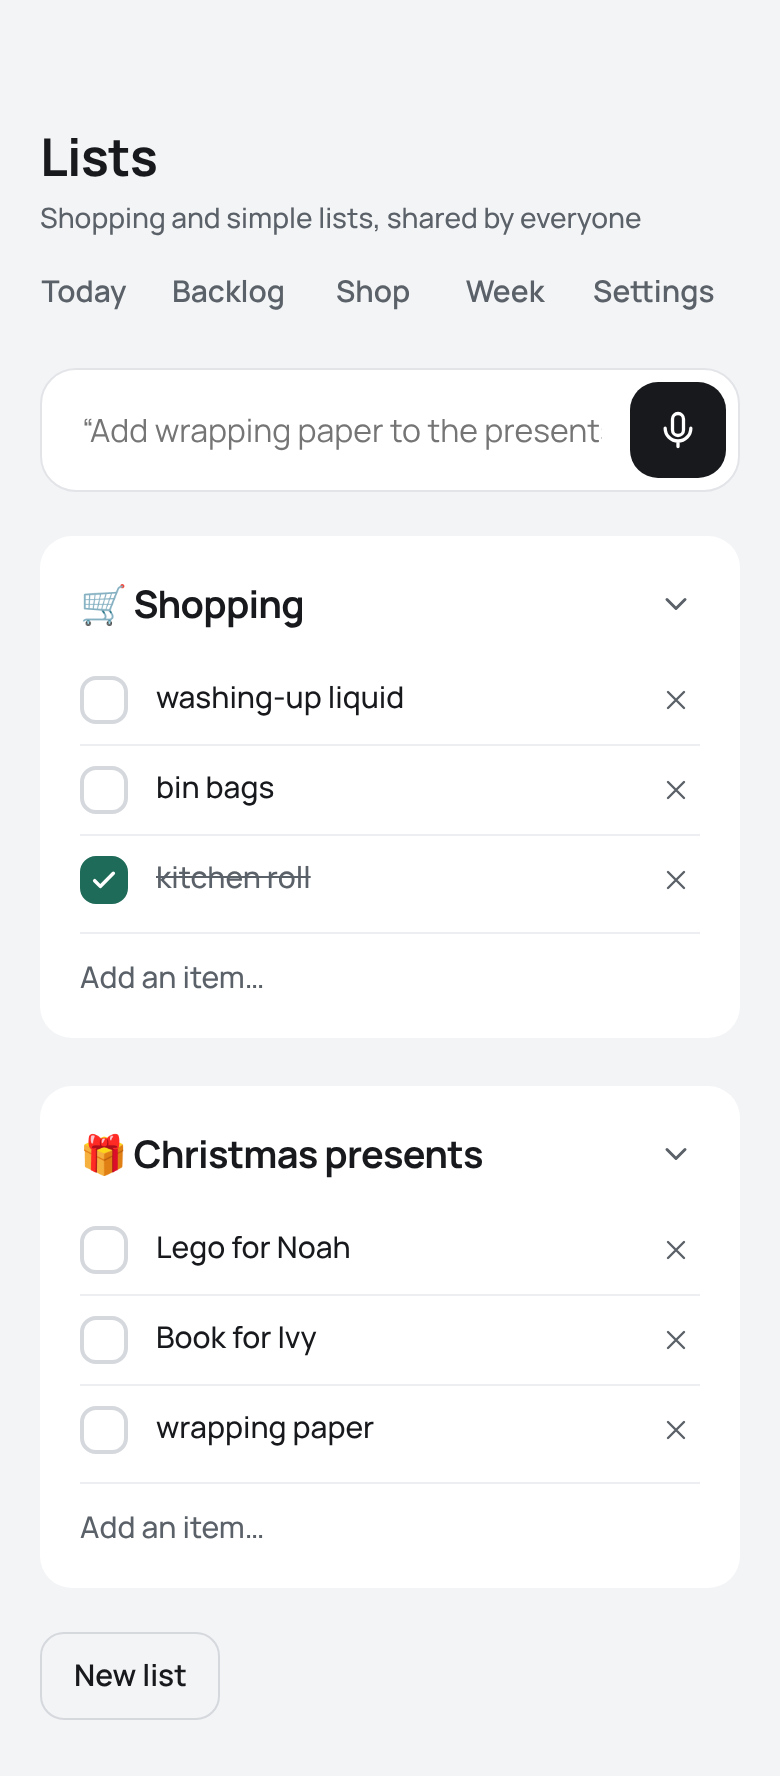
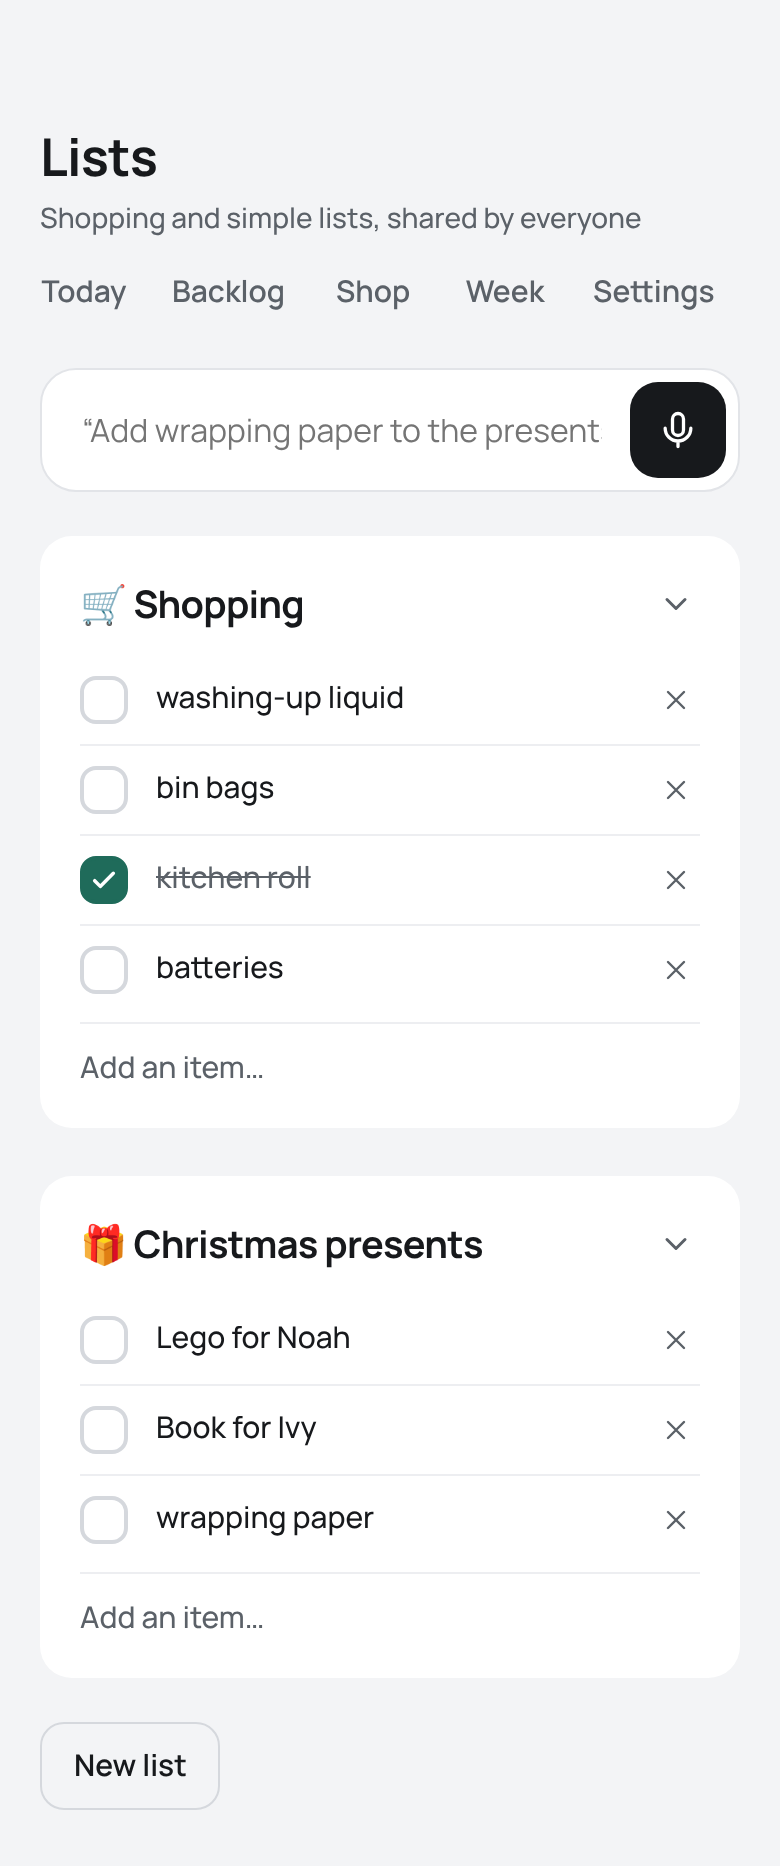
HOU-137: fix Entire findings on the lists domain
- "add … to the shopping list" now goes on the Shopping list in the app;
  "we're out of …" and "add … to the shop/basket/order" still go to the
  supermarket (AUT-1). Tool description, agent instructions, practice model,
  and a vitest and e2e case for it.
- The import refuses to write into the practice household unless --practice,
  and is documented to run inside the app container with the house's own
  settings (the host-side pnpm script is gone).
- Adding an item clears only the text that was sent; anything typed while it
  saved stays.
- Failed adds and renames show a message instead of an unhandled rejection.
- Each list panel no longer mounts its own lists query.
- setChecked uses the update's own result; addItem tests the actor once.

Claude-Session: https://claude.ai/code/session_01J2FKjcehDVc3WtDzLnXPPs
Entire-Checkpoint: 01M6BRSTV776CFA1TQV18FJY2Y

diff --git a/web/src/screens/Lists.tsx b/web/src/screens/Lists.tsx
@@ -7,20 +7,34 @@ import { FooterComposer, navFor } from "./common.tsx";
 
 const NEW_LIST = { name: "New list", emoji: "📝" } as const;
 const alreadyThere = (text: string) => `"${text}" is already on this list — try a different name.`;
+const NOT_SAVED = "That didn't save — check the connection and try again.";
 
-/** The lists query, and a way to change it in place before the server answers (the change then arrives over /api/live). */
-function useListsData() {
+/**
+ * A write that resolves to a message to show (or null when it saved). A failed request shows a
+ * message instead of being lost; the list is refetched either way.
+ */
+type Refusal = string | null;
+async function saved(write: () => Promise<{ outcome: ListWriteOutcome }>, text: string): Promise<Refusal> {
+  try {
+    return (await write()).outcome === ListWriteOutcome.duplicate ? alreadyThere(text) : null;
+  } catch {
+    return NOT_SAVED;
+  }
+}
+
+/** Change the lists in place before the server answers (the server's answer then arrives over /api/live). */
+function useListsCache() {
   const trpc = useTRPC();
   const queryClient = useQueryClient();
   const key = trpc.lists.queryKey();
   const patchItem = (id: string, change: (item: ListItem) => ListItem | null) =>
     queryClient.setQueryData<ListsView>(key, (old) => old?.map((l) => ({ ...l, items: l.items.flatMap((i) => (i.id === id ? [change(i)].filter((x) => x !== null) : [i])) })));
-  return { lists: useQuery(trpc.lists.queryOptions()), patchItem, refresh: () => queryClient.invalidateQueries({ queryKey: key }) };
+  return { patchItem, refresh: () => queryClient.invalidateQueries({ queryKey: key }) };
 }
 
 function ListPanel({ list }: { list: List }) {
   const trpc = useTRPC();
-  const { patchItem, refresh } = useListsData();
+  const { patchItem, refresh } = useListsCache();
   const settle = { onSettled: refresh };
   const add = useMutation(trpc.addListItem.mutationOptions(settle));
   const check = useMutation(trpc.setListItemChecked.mutationOptions(settle));
@@ -79,10 +93,7 @@ function ListPanel({ list }: { list: List }) {
       adder={
         <AddItemField
           label={`Add an item to ${list.name}`}
-          onAdd={async (text) => {
-            const result = await add.mutateAsync({ listId: list.id, text });
-            return result.outcome === ListWriteOutcome.duplicate ? alreadyThere(text) : null;
-          }}
+          onAdd={(text) => saved(() => add.mutateAsync({ listId: list.id, text }), text)}
         />
       }
     >
@@ -95,10 +106,7 @@ function ListPanel({ list }: { list: List }) {
             patchItem(item.id, (i) => ({ ...i, checked }));
             check.mutate({ id: item.id, checked });
           }}
-          onRename={async (text) => {
-            const result = await rename.mutateAsync({ id: item.id, text });
-            return result.outcome === ListWriteOutcome.duplicate ? alreadyThere(text) : null;
-          }}
+          onRename={(text) => saved(() => rename.mutateAsync({ id: item.id, text }), text)}
           onRemove={() => {
             patchItem(item.id, () => null);
             removeItem.mutate({ id: item.id });
@@ -115,7 +123,8 @@ function ListPanel({ list }: { list: List }) {
  */
 export function ListsScreen() {
   const trpc = useTRPC();
-  const { lists, refresh } = useListsData();
+  const lists = useQuery(trpc.lists.queryOptions());
+  const { refresh } = useListsCache();
   const create = useMutation(trpc.createList.mutationOptions({ onSettled: refresh }));
   return (
     <Page label="Lists">

diff --git a/scripts/import-family-lists.ts b/scripts/import-family-lists.ts
@@ -8,12 +8,16 @@ import { FAMILY_LISTS_ENV, readFamilyLists, redacted } from "./family-lists/read
 /**
  * CAP-6: copy Family Lists' lists and items into the lists domain, once (order, ticks and emoji kept).
  *
- *   FAMILY_LISTS_DATABASE_URL='postgresql://…' pnpm lists:import            # copy into this house
- *   FAMILY_LISTS_DATABASE_URL='postgresql://…' pnpm lists:import --dry-run  # only count what is there
+ * Run it where the app runs, so it reads the house's own settings (docs/OPERATIONS.md):
  *
- * It reads Family Lists in a read-only transaction and never writes to it. It writes to this house's
- * lists domain (DATABASE_URL, DB_PREFIX and the rest of .env, as `pnpm start` does) and refuses if any
- * list is already there. The connection string is read from the environment only; it is never printed.
+ *   FAMILY_LISTS_DATABASE_URL='postgresql://…' docker compose run --rm -e FAMILY_LISTS_DATABASE_URL app node scripts/import-family-lists.ts --dry-run
+ *   FAMILY_LISTS_DATABASE_URL='postgresql://…' docker compose run --rm -e FAMILY_LISTS_DATABASE_URL app node scripts/import-family-lists.ts
+ *
+ * It reads Family Lists in a read-only transaction and never writes to it. It writes to the lists
+ * domain of the house its environment names (DATABASE_URL, DB_PREFIX, PRACTICE, as `pnpm start` reads
+ * them), says which, and refuses if any list is already there. Without `--practice` it refuses to write
+ * into the practice household, so a run that missed the house's settings cannot land there by default.
+ * The connection string is read from the environment only; it is never printed.
  */
 const source = process.env[FAMILY_LISTS_ENV];
 if (source === undefined || source === "") {
@@ -21,6 +25,7 @@ if (source === undefined || source === "") {
   process.exit(2);
 }
 const dryRun = process.argv.includes("--dry-run");
+const intoPractice = process.argv.includes("--practice");
 
 try {
   const snapshot = await readFamilyLists(source);
@@ -30,6 +35,10 @@ try {
     process.exit(0);
   }
   const env = loadEnv();
+  if (env.PRACTICE && !intoPractice) {
+    console.error(JSON.stringify({ event: "family-lists-import-refused", reason: "these settings are the practice household (PRACTICE is not false); run it where the app runs (docs/OPERATIONS.md), or pass --practice to copy into the practice household on purpose" }));
+    process.exit(2);
+  }
   await migrateAll(env);
   const ports = env.PRACTICE ? practicePorts() : realPorts(env, { now: () => new Date() }, { timeZone: "Europe/London", personForEmail: () => null }).ports;
   const rt = await createRuntime(env, ports);

diff --git a/scripts/family-lists/import.test.ts b/scripts/family-lists/import.test.ts
@@ -91,13 +91,18 @@ describe("Family Lists import (CAP-6)", () => {
     expect(dry).toMatchObject({ code: 0 });
     expect(dry.out).toContain('"lists":4,"items":7');
 
-    const first = await importScript({ [FAMILY_LISTS_ENV]: sourceUrl });
+    // Without the house's own settings it would land in the practice household, so it refuses.
+    const unaimed = await importScript({ [FAMILY_LISTS_ENV]: sourceUrl });
+    expect(unaimed.code).toBe(2);
+    expect(unaimed.out).toContain("family-lists-import-refused");
+
+    const first = await importScript({ [FAMILY_LISTS_ENV]: sourceUrl }, ["--practice"]);
     expect(first.code, first.out).toBe(0);
     expect(first.out).toContain('"event":"family-lists-imported"');
-    const again = await importScript({ [FAMILY_LISTS_ENV]: sourceUrl });
+    const again = await importScript({ [FAMILY_LISTS_ENV]: sourceUrl }, ["--practice"]);
     expect(again.code).toBe(1);
     expect(again.out).toContain("only runs once");
-    for (const r of [dry, first, again]) {
+    for (const r of [dry, unaimed, first, again]) {
       expect(r.out).not.toContain(readerPassword);
       expect(r.out).not.toContain(sourceUrl);
     }
@@ -128,7 +133,7 @@ describe("Family Lists import (CAP-6)", () => {
     expect(missing.code).toBe(2);
     expect(missing.out).toContain(FAMILY_LISTS_ENV);
     const wrong = sourceUrl.replace(readerPassword, "not-the-password-123");
-    const failed = await importScript({ [FAMILY_LISTS_ENV]: wrong });
+    const failed = await importScript({ [FAMILY_LISTS_ENV]: wrong }, ["--practice"]);
     expect(failed.code).toBe(1);
     expect(failed.out).toContain("family-lists-import-failed");
     expect(failed.out).not.toContain("not-the-password-123");

diff --git a/server/domains/lists/router.ts b/server/domains/lists/router.ts
@@ -107,8 +107,9 @@ export function listsRouter(db: ListsDb) {
       .mutation(async ({ ctx, input }): Promise<ListWriteResult> => {
         const author = actingPerson(ctx.actor);
         if (author === null) forbid("PRV-1: a list item must come from a person");
-        const fromJob = ctx.actor.kind === ActorKind.agent;
-        if (ctx.actor.kind === ActorKind.agent && ctx.actor.message !== input.sourceMessage) forbid("PRV-1: a job can only add what the message it is handling asked for");
+        const job = ctx.actor.kind === ActorKind.agent ? ctx.actor : null;
+        if (job !== null && job.message !== input.sourceMessage) forbid("PRV-1: a job can only add what the message it is handling asked for");
+        const fromJob = job !== null;
         const list = await db.query.lists.findFirst({ where: eq(schema.lists.id, input.listId) });
         if (list === undefined) forbid(`no list ${input.listId}`);
         const existing = await duplicateOf(list.id, input.text, null);
@@ -143,9 +144,8 @@ export function listsRouter(db: ListsDb) {
 
     /** Tick or untick. Ticked items stay on the list, struck through. */
     setChecked: personProcedure.input(zListItemCheckInput).output(zListItem).mutation(async ({ ctx, input }) => {
-      await itemById(input.id);
       const [row] = await db.update(schema.items).set({ checked: input.checked }).where(eq(schema.items.id, input.id)).returning();
-      if (row === undefined) throw new Error("update failed");
+      if (row === undefined) forbid(`no list item ${input.id}`);
       ctx.publish("lists");
       return toItem(row);
     }),

diff --git a/server/jobs/lists.test.ts b/server/jobs/lists.test.ts
@@ -106,6 +106,16 @@ describe("The house only ever adds to a list (PRV-1)", () => {
     expect(presents.items.map((i) => i.text).slice(0, 2)).toEqual(["Lego for Noah", "Book for Ivy"]);
   });
 
+  test("[CAP-6][AUT-1] 'add … to the shopping list' goes on the Shopping list; 'we're out of …' still goes to the supermarket", async () => {
+    await h.sayAndWait("add batteries to the shopping list", { person: "tom" });
+    expect((await listNamed("Shopping")).items.map((i) => i.text)).toContain("batteries");
+    const requests = await h.rt.system("test").shopping.recent();
+    expect(requests.map((r) => r.item)).not.toContain("batteries");
+    await h.sayAndWait("we're out of oat milk", { person: "tom" });
+    expect((await h.rt.system("test").shopping.recent()).map((r) => r.item)).toContain("oat milk");
+    expect((await listNamed("Shopping")).items.map((i) => i.text)).not.toContain("oat milk");
+  });
+
   test("[PRV-1] a job can add an item, but never delete, rename, tick or untick one a person wrote, or change a list", async () => {
     const list = await freshList("Guarded", ["Batteries", "Tape"]);
     const [batteries, tape] = list.items;

diff --git a/server/agent/agent.ts b/server/agent/agent.ts
@@ -10,7 +10,7 @@ import { houseTools } from "./tools.ts";
 const INSTRUCTIONS = `You run the admin for one family's house. You can only suggest and record; you never move, delete or spend.
 Every message is from one of the household's adults. Decide what they mean and call exactly the tools that do it:
 - a thought or job with no date → capture (guess tags only from the allowed list)
-- groceries ("we're out of oat milk") → shop; a simple shared list → add_to_list
+- groceries with no list named ("we're out of oat milk", "add it to the shop") → shop; anything added to a named list ("add batteries to the shopping list", "add wrapping paper to the presents list") → add_to_list
 - "slow day", "sick day", "we're away", "normal day" → set_mode
 - "if I do one thing, what should it be?" → what_now, then answer with that ONE thing and its reason. Never a list. Never ask a question first.
 - "Cal can do it", "move this to tomorrow", "done", "not today" → hand_over / move_to_tomorrow / respond, using the About ref for "this"

diff --git a/server/agent/practice-model.ts b/server/agent/practice-model.ts
@@ -82,7 +82,9 @@ function practiceIntent(prompt: string): Call[] {
   if (sitter !== null) return [{ tool: "sitter_booked", input: { sitter: sitter[1], when: sitter[2] } }];
 
   const list = LIST_ADD.exec(text);
-  if (list !== null && !/\b(shop|shopping|basket|order)\b/i.test(list[2] ?? "")) return [{ tool: "add_to_list", input: { list: list[2], item: list[1] } }];
+  // CAP-6: naming a list ("the shopping list", "the presents list") adds to that list in the app;
+  // "we're out of…" or "add … to the shop/basket/order" still goes to the supermarket (AUT-1).
+  if (list !== null && !/\b(shop|basket|order|ocado|supermarket)\b/i.test(list[2] ?? "")) return [{ tool: "add_to_list", input: { list: list[2], item: list[1] } }];
   const shop = SHOP_ADD.exec(text) ?? SHOP_OUT.exec(text) ?? SHOP_NEED.exec(text);
   if (shop?.[1] !== undefined) return [{ tool: "shop", input: { items: splitItems(shop[1]) } }];
 

diff --git a/server/agent/tools.ts b/server/agent/tools.ts
@@ -58,7 +58,7 @@ export function houseTools(scope: JobScope) {
    */
   const addToList = createTool({
     id: "add_to_list",
-    description: "Add one item to one of the household's shared lists (presents, packing, a shared shopping list). Not groceries for the supermarket.",
+    description: "Add one item to one of the household's shared lists, named by the person: 'add batteries to the shopping list', 'add wrapping paper to the presents list'. Groceries with no list named ('we're out of oat milk', 'add it to the shop') go to shop instead.",
     inputSchema: z.object({ list: z.string(), item: z.string().min(1) }),
     execute: record("add_to_list", async (input: { list: string; item: string }) => {
       const wanted = input.list.trim().toLowerCase().replace(/\s+list$/, "");

diff --git a/e2e/lists.spec.ts b/e2e/lists.spec.ts
@@ -78,6 +78,9 @@ test("[CAP-6][PRV-1] anything said adds to a list, and it shows on the other scr
   await say(page, "add wrapping paper to the christmas presents list");
   // limit: captureBudgetMs
   await expect(list(phone, "Christmas presents").getByRole("button", { name: "wrapping paper", exact: true })).toBeVisible({ timeout: Limits.captureBudgetMs.value });
+  await say(page, "add batteries to the shopping list");
+  // limit: captureBudgetMs
+  await expect(list(phone, "Shopping").getByRole("button", { name: "batteries", exact: true })).toBeVisible({ timeout: Limits.captureBudgetMs.value });
   await evidence(phone, "CAP-6-said-on-the-ipad-seen-on-the-phone");
   await phoneCtx.close();
 });

diff --git a/web/src/design-system/checklist.tsx b/web/src/design-system/checklist.tsx
@@ -199,7 +199,8 @@ export function AddItemField({ label, onAdd }: { label: string; onAdd: (text: st
         if (text === "") return;
         void (async () => {
           const refused = await onAdd(text);
-          if (refused === null) setDraft("");
+          // Only clear what was sent: anything typed while it was saving stays.
+          if (refused === null) setDraft((current) => (current.trim() === text ? "" : current));
           setError(refused);
         })();
       }}

diff --git a/docs/OPERATIONS.md b/docs/OPERATIONS.md
@@ -26,18 +26,24 @@ and `HINDSIGHT_URL=http://hindsight:8888`. Without it the app keeps episodic mem
 ## Bring Family Lists over (once)
 
 Shopping and simple lists live in the app (CAP-6). To copy the lists from Family Lists' Supabase
-(lists and items, keeping their order, ticks and emoji), run once on the server, after the app has
-started at least once:
+(lists and items, keeping their order, ticks and emoji), run it once on the server, inside the app's
+container so it reads the house's own settings, after the app has started at least once:
 
 ```bash
-FAMILY_LISTS_DATABASE_URL='postgresql://…' pnpm lists:import --dry-run   # only counts what is there
-FAMILY_LISTS_DATABASE_URL='postgresql://…' pnpm lists:import             # copies it
+export FAMILY_LISTS_DATABASE_URL='postgresql://…'   # in this shell only
+docker compose run --rm -e FAMILY_LISTS_DATABASE_URL app node scripts/import-family-lists.ts --dry-run   # only counts
+docker compose run --rm -e FAMILY_LISTS_DATABASE_URL app node scripts/import-family-lists.ts             # copies it
+unset FAMILY_LISTS_DATABASE_URL
 ```
+
+It prints the database prefix it copied into. Run anywhere without the house's settings it would
+aim at the practice household, so it refuses; `--practice` copies into the practice household on
+purpose.
 
 | Variable | What it is |
 | --- | --- |
 | `FAMILY_LISTS_DATABASE_URL` | Family Lists' Postgres connection string (Supabase dashboard → Connect; add `?sslmode=require`). A role that can only `SELECT` on `lists` and `items` is enough. |
-| `DATABASE_URL`, `DB_PREFIX` and the rest of `.env` | Where to copy to: this house, exactly as `pnpm start` reads them. |
+| `DATABASE_URL`, `DB_PREFIX`, `PRACTICE` and the rest of `.env` | Where to copy to: the app container already has them, exactly as the server reads them. |
 
 Set the connection string in the shell for that one command; never put it in `.env`, the repo or a
 chat. The script reads Family Lists in a read-only transaction and never writes to it, prints only
